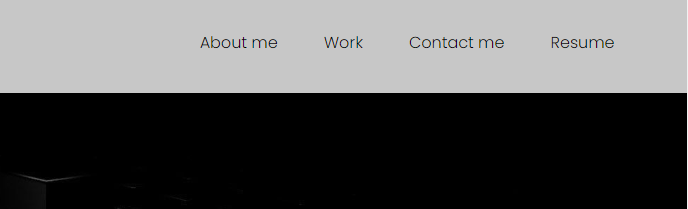
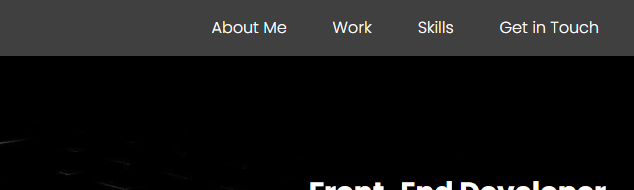
final touches to HTML code and README file

diff --git a/index.html b/index.html
@@ -301,7 +301,7 @@
                 </div>
               </form>
             </div>
-          </div><!--- END COL -->
+          </div><!--- end col -->
           <div class="row justify-content-center contact-icons">
             <div class="contact-details col-2 text-center">
               <a href="mailto:email@example.com?subject=I found your website and want to say something">
@@ -323,10 +323,10 @@
                 <img src="./images/spotify.png">
               </a>
             </div>
-          </div>
-        </div><!--- END COL -->
-      </div><!--- END ROW -->
-    </div><!--- END CONTAINER -->
+          </div><!--- end col -->
+        </div><!--- end row -->
+      </div><!--- end container -->
+    </div><!--- end contact -->
   </main>
 
   <footer>

diff --git a/README.md b/README.md
@@ -12,15 +12,16 @@
 
 This is the second version of my portfolio with the projects I've done so far as a Front-End Developer student. It has improved a lot since the first one. I'll keep it update to date with new projects.
 
-![The webpage of my portfolio includes a navigation bar, a hero banner image, and an improved work section carousel with the preview of my last projects, along with their links.](https://github.com/AndyFt/portfolio/blob/main/images/andyft-github-io-portfolio.jpg)
+![The webpage of my portfolio includes a navigation bar, a hero banner image, an improved work section carousel with the preview of my last projects, along with their links, my skills, and my contact information, along with a form to directly contact me.](https://github.com/AndyFt/bootstrap-portfolio/blob/main/images/andyft-github-io-bootstrap-portfolio.png)
 
 ## Deployment
 
-Deployed application: https://andyft.github.io/portfolio/
+- Deployed application: https://andyft.github.io/bootstrap-portfolio/
+- Previous deployed portfolio: https://andyft.github.io/portfolio/
 
 ## Usage
 
-Portfolio webpage to learn about my work. It contains a small description of myself, my last projects and my contact information. You can click on the navigation bar to go exactly where you want. ![navigation bar](https://github.com/AndyFt/portfolio/blob/main/images/navbar.png)
+Portfolio webpage to learn about my work. It contains a small description of myself, my last projects, my skills and my contact information. You can click on the navigation bar to go exactly where you want. ![navigation bar](https://github.com/AndyFt/bootstrap-portfolio/blob/main/images/navbar.png)
 
 ## Credits
 
@@ -36,6 +37,5 @@ Portfolio webpage to learn about my work. It contains a small description of mys
 MIT license
 
 ## Badges
-![badmath](https://img.shields.io/badge/HTML-44.8-blue)
-![badmath](https://img.shields.io/badge/CSS-55.2-orange)
-# bootstrap-portfolio
+![badmath](https://img.shields.io/badge/HTML-78.5-blue)
+![badmath](https://img.shields.io/badge/CSS-21.5-orange)
